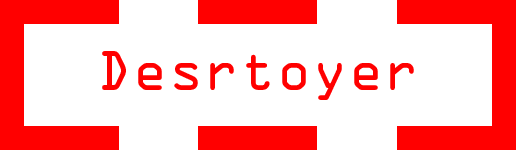
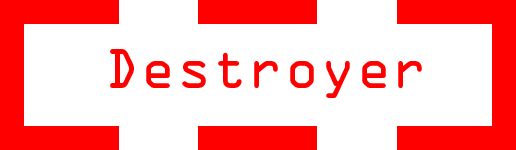
fonts change

Changed region(s): [[0.186, 0.32, 0.8372, 0.6667]]

diff --git a/GEOWARS_SOURCE/core/src/com/group17/geowars/screens/UpgradeMenuScreen.java b/GEOWARS_SOURCE/core/src/com/group17/geowars/screens/UpgradeMenuScreen.java
@@ -21,30 +21,31 @@ import com.group17.geowars.utils.SHIPTYPES;
  * Created by michiel on 4/12/2016.
  */
 public class UpgradeMenuScreen extends MenuScreen implements iHasStage, iSetActive {
-    private BitmapFont text;
-    private Batch batch;
-
-    private int showShip = 0;
-    private int showDrone = 0;
-    private int showShipStats = 0;
-    private int showDroneStats = 0;
-    private ShopThread ShopThread;
-    private SHIPTYPES shipData;
-    private Profile profile;
-    private DRONETYPES droneData;
-    private boolean loading = false;
+    protected Batch batch;
+    protected int showShip = 0;
+    protected int showDrone = 0;
+    protected int showShipStats = 0;
+    protected int showDroneStats = 0;
+    protected ShopThread ShopThread;
+    protected SHIPTYPES shipData;
+    protected Profile profile;
+    protected DRONETYPES droneData;
+    protected boolean loading = false;
+    protected Color color;
+    protected BitmapFont bigFont;
 
     public UpgradeMenuScreen() {
         super();
         create();
-        profile =new Profile(SHIPTYPES.DESTROYER, DRONETYPES.DEFEND);
+        profile = new Profile(SHIPTYPES.DESTROYER, DRONETYPES.DEFEND);
+        createButtons();
+        color = Color.WHITE;
+        bigFont = Managers.getAssetManager().getGameFont(color, 15);
     }
 
     public void create() {
         Gdx.input.setInputProcessor(stage);
         batch = new SpriteBatch();
-        text = new BitmapFont();
-        text.setColor(Color.WHITE);
         shipData=SHIPTYPES.ASSAULT;
         droneData=DRONETYPES.SUPPORT;
     }
@@ -233,65 +234,64 @@ public class UpgradeMenuScreen extends MenuScreen implements iHasStage, iSetActi
     }
 
     public void tankText() {
-        text.draw(batch, "-TANK", 50, GeoWars.HEIGHT - GeoWars.HEIGHT / 6);
-        text.draw(batch, "-HIGH HP", 50, (float) (GeoWars.HEIGHT - GeoWars.HEIGHT / 4.75));
-        text.draw(batch, "-LOW ATK", 50, GeoWars.HEIGHT - GeoWars.HEIGHT / 4);
-        text.draw(batch, "HP = 30", 50, GeoWars.HEIGHT / 2 + GeoWars.HEIGHT / 10);
-        text.draw(batch, "ATK = 2", GeoWars.WIDTH / 3, GeoWars.HEIGHT / 2 + GeoWars.HEIGHT / 10);
+        bigFont.draw(batch, "-TANK", 50, GeoWars.HEIGHT - GeoWars.HEIGHT / 6);
+        bigFont.draw(batch, "-HIGH HP", 50, (float) (GeoWars.HEIGHT - GeoWars.HEIGHT / 4.75));
+        bigFont.draw(batch, "-LOW ATK", 50, GeoWars.HEIGHT - GeoWars.HEIGHT / 4);
+        bigFont.draw(batch, "HP = 30", 50, GeoWars.HEIGHT / 2 + GeoWars.HEIGHT / 10);
+        bigFont.draw(batch, "ATK = 2", GeoWars.WIDTH / 3, GeoWars.HEIGHT / 2 + GeoWars.HEIGHT / 10);
     }
 
     public void assaultText() {
-        text.draw(batch, "-ASSAULT", 50, GeoWars.HEIGHT - GeoWars.HEIGHT / 6);
-        text.draw(batch, "-HIGH ATTACK", 50, (float) (GeoWars.HEIGHT - GeoWars.HEIGHT / 4.75));
-        text.draw(batch, "-MED HP", 50, GeoWars.HEIGHT - GeoWars.HEIGHT / 4);
-        text.draw(batch, "HP = 20", 50, GeoWars.HEIGHT / 2 + GeoWars.HEIGHT / 10);
-        text.draw(batch, "ATK = 10", GeoWars.WIDTH / 3, GeoWars.HEIGHT / 2 + GeoWars.HEIGHT / 10);
+        bigFont.draw(batch, "-ASSAULT", 50, GeoWars.HEIGHT - GeoWars.HEIGHT / 6);
+        bigFont.draw(batch, "-HIGH ATTACK", 50, (float) (GeoWars.HEIGHT - GeoWars.HEIGHT / 4.75));
+        bigFont.draw(batch, "-MED HP", 50, GeoWars.HEIGHT - GeoWars.HEIGHT / 4);
+        bigFont.draw(batch, "HP = 20", 50, GeoWars.HEIGHT / 2 + GeoWars.HEIGHT / 10);
+        bigFont.draw(batch, "ATK = 10", GeoWars.WIDTH / 3, GeoWars.HEIGHT / 2 + GeoWars.HEIGHT / 10);
     }
 
     public void destroyerText() {
-        text.draw(batch, "-DESTROYER", 50, GeoWars.HEIGHT - GeoWars.HEIGHT / 6);
-        text.draw(batch, "-HIGH ATK", 50, (float) (GeoWars.HEIGHT - GeoWars.HEIGHT / 4.75));
-        text.draw(batch, "-LOW DEF", 50, GeoWars.HEIGHT - GeoWars.HEIGHT / 4);
-        text.draw(batch, "HP = 10", 50, GeoWars.HEIGHT / 2 + GeoWars.HEIGHT / 10);
-        text.draw(batch, "ATK = 10", GeoWars.WIDTH / 3, GeoWars.HEIGHT / 2 + GeoWars.HEIGHT / 10);
+        bigFont.draw(batch, "-DESTROYER", 50, GeoWars.HEIGHT - GeoWars.HEIGHT / 6);
+        bigFont.draw(batch, "-HIGH ATK", 50, (float) (GeoWars.HEIGHT - GeoWars.HEIGHT / 4.75));
+        bigFont.draw(batch, "-LOW DEF", 50, GeoWars.HEIGHT - GeoWars.HEIGHT / 4);
+        bigFont.draw(batch, "HP = 10", 50, GeoWars.HEIGHT / 2 + GeoWars.HEIGHT / 10);
+        bigFont.draw(batch, "ATK = 10", GeoWars.WIDTH / 3, GeoWars.HEIGHT / 2 + GeoWars.HEIGHT / 10);
     }
 
     public void supportText() {
-        text.draw(batch, "-SLOW DOWN ENEMIES", GeoWars.WIDTH / 2 + (GeoWars.WIDTH / 3), GeoWars.HEIGHT - GeoWars.HEIGHT / 6);
-        text.draw(batch, "-CAN'T DIE", GeoWars.WIDTH / 2 + (GeoWars.WIDTH / 3), GeoWars.HEIGHT - GeoWars.HEIGHT / 4);
-        text.draw(batch, "ATK= 0", GeoWars.WIDTH / 2 + 50, GeoWars.HEIGHT / 2 + GeoWars.HEIGHT / 10);
-        text.draw(batch, "HP = INFINITE", GeoWars.WIDTH / 2 + (GeoWars.WIDTH / 3), GeoWars.HEIGHT / 2 + GeoWars.HEIGHT / 10);
+        bigFont.draw(batch, "-SLOW DOWN ENEMIES", GeoWars.WIDTH / 2 + (GeoWars.WIDTH / 3), GeoWars.HEIGHT - GeoWars.HEIGHT / 6);
+        bigFont.draw(batch, "-CAN'T DIE", GeoWars.WIDTH / 2 + (GeoWars.WIDTH / 3), GeoWars.HEIGHT - GeoWars.HEIGHT / 4);
+        bigFont.draw(batch, "ATK= 0", GeoWars.WIDTH / 2 + 50, GeoWars.HEIGHT / 2 + GeoWars.HEIGHT / 10);
+        bigFont.draw(batch, "HP = INFINITE", GeoWars.WIDTH / 2 + (GeoWars.WIDTH / 3), GeoWars.HEIGHT / 2 + GeoWars.HEIGHT / 10);
     }
 
     public void attackText() {
-        text.draw(batch, "-SHOOTS UNITS", GeoWars.WIDTH / 2 + (GeoWars.WIDTH / 3), GeoWars.HEIGHT - GeoWars.HEIGHT / 6);
-        text.draw(batch, "-CAN'T DIE", GeoWars.WIDTH / 2 + (GeoWars.WIDTH / 3), GeoWars.HEIGHT - GeoWars.HEIGHT / 4);
-        text.draw(batch, "ATK= 1", GeoWars.WIDTH / 2 + 50, GeoWars.HEIGHT / 2 + GeoWars.HEIGHT / 10);
-        text.draw(batch, "HP = INFINITE", GeoWars.WIDTH / 2 + (GeoWars.WIDTH / 3), GeoWars.HEIGHT / 2 + GeoWars.HEIGHT / 10);
+        bigFont.draw(batch, "-SHOOTS UNITS", GeoWars.WIDTH / 2 + (GeoWars.WIDTH / 3), GeoWars.HEIGHT - GeoWars.HEIGHT / 6);
+        bigFont.draw(batch, "-CAN'T DIE", GeoWars.WIDTH / 2 + (GeoWars.WIDTH / 3), GeoWars.HEIGHT - GeoWars.HEIGHT / 4);
+        bigFont.draw(batch, "ATK= 1", GeoWars.WIDTH / 2 + 50, GeoWars.HEIGHT / 2 + GeoWars.HEIGHT / 10);
+        bigFont.draw(batch, "HP = INFINITE", GeoWars.WIDTH / 2 + (GeoWars.WIDTH / 3), GeoWars.HEIGHT / 2 + GeoWars.HEIGHT / 10);
     }
 
     public void defendText() {
-        text.draw(batch, "-DEFENDS SHIP", GeoWars.WIDTH / 2 + (GeoWars.WIDTH / 3), GeoWars.HEIGHT - GeoWars.HEIGHT / 6);
-        text.draw(batch, "-CAN'T DIE", GeoWars.WIDTH / 2 + (GeoWars.WIDTH / 3), GeoWars.HEIGHT - GeoWars.HEIGHT / 4);
-        text.draw(batch, "ATK= 0", GeoWars.WIDTH / 2 + 50, GeoWars.HEIGHT / 2 + GeoWars.HEIGHT / 10);
-        text.draw(batch, "HP = INFINITE", GeoWars.WIDTH / 2 + (GeoWars.WIDTH / 3), GeoWars.HEIGHT / 2 + GeoWars.HEIGHT / 10);
+        bigFont.draw(batch, "-DEFENDS SHIP", GeoWars.WIDTH / 2 + (GeoWars.WIDTH / 3), GeoWars.HEIGHT - GeoWars.HEIGHT / 6);
+        bigFont.draw(batch, "-CAN'T DIE", GeoWars.WIDTH / 2 + (GeoWars.WIDTH / 3), GeoWars.HEIGHT - GeoWars.HEIGHT / 4);
+        bigFont.draw(batch, "ATK= 0", GeoWars.WIDTH / 2 + 50, GeoWars.HEIGHT / 2 + GeoWars.HEIGHT / 10);
+        bigFont.draw(batch, "HP = INFINITE", GeoWars.WIDTH / 2 + (GeoWars.WIDTH / 3), GeoWars.HEIGHT / 2 + GeoWars.HEIGHT / 10);
     }
 
     public void shipSkillTreeText() {
-        text.draw(batch, "SKILL TREE", 50, GeoWars.HEIGHT / 2 - 50);
-        text.draw(batch, "SKILL POINTS 2/2", GeoWars.WIDTH / 3, GeoWars.HEIGHT / 2 - 50);
+        bigFont.draw(batch, "SKILL TREE", 50, GeoWars.HEIGHT / 2 - 50);
+        bigFont.draw(batch, "SKILL POINTS 2 of 2", GeoWars.WIDTH / 3, GeoWars.HEIGHT / 2 - 50);
     }
 
     public void droneSkillTreeText() {
-        text.draw(batch, "SKILL TREE", GeoWars.WIDTH / 2 + 50, GeoWars.HEIGHT / 2 - 50);
-        text.draw(batch, "SKILL POINTS 2/2", GeoWars.WIDTH / 2 + (GeoWars.WIDTH / 3), GeoWars.HEIGHT / 2 - 50);
+        bigFont.draw(batch, "SKILL TREE", GeoWars.WIDTH / 2 + 50, GeoWars.HEIGHT / 2 - 50);
+        bigFont.draw(batch, "SKILL POINTS 2 of 2", GeoWars.WIDTH / 2 + (GeoWars.WIDTH / 3), GeoWars.HEIGHT / 2 - 50);
     }
 
     public void showText() {
-        text.draw(batch, "SHIP", (GeoWars.WIDTH / 2) / 2 - 15, GeoWars.HEIGHT - 90);
-        text.draw(batch, "DRONE", GeoWars.WIDTH / 2 + (GeoWars.WIDTH / 2 / 2 - 30), GeoWars.HEIGHT - 90);
+        bigFont.draw(batch, "SHIP", (GeoWars.WIDTH / 2) / 2 - 15, GeoWars.HEIGHT - 90);
+        bigFont.draw(batch, "DRONE", GeoWars.WIDTH / 2 + (GeoWars.WIDTH / 2 / 2 - 30), GeoWars.HEIGHT - 90);
         changeText();
-        createButtons();
     }
 
     public void changeText() {
@@ -368,7 +368,7 @@ public class UpgradeMenuScreen extends MenuScreen implements iHasStage, iSetActi
         drawTreeLine(GeoWars.WIDTH / 4, GeoWars.HEIGHT / 5, GeoWars.WIDTH / 5, GeoWars.HEIGHT / 4);
         drawTreeLine(GeoWars.WIDTH / 5, GeoWars.HEIGHT / 4, GeoWars.WIDTH / 5, GeoWars.HEIGHT / 3);
         drawTreeLine(GeoWars.WIDTH / 5, GeoWars.HEIGHT / 3, GeoWars.WIDTH / 4, GeoWars.HEIGHT / 3 + GeoWars.HEIGHT / 20);
-        drawTreeLine(GeoWars.WIDTH / 2, 75, GeoWars.WIDTH / 2, GeoWars.HEIGHT);
+        drawTreeLine(GeoWars.WIDTH / 2, 95, GeoWars.WIDTH / 2, GeoWars.HEIGHT);
     }
 
     public void droneSkillTree() {
@@ -430,10 +430,6 @@ public class UpgradeMenuScreen extends MenuScreen implements iHasStage, iSetActi
         active = false;
     }
 
-    public void showLoading() {
-        text.draw(batch, "Loading...", 350, 380);
-    }
-
     public void getAllData() {
         if (loading)
             return;
@@ -448,24 +444,12 @@ public class UpgradeMenuScreen extends MenuScreen implements iHasStage, iSetActi
 
         super.render(delta);
         batch.begin();
-        if (ShopThread != null && ShopThread.finished()) {
-          //  shipData = ShopThread.getShipData();
-           // droneData = ShopThread.getDronesData();
-            ShopThread = null;
 
-            loading = false;
-
-        }
-        if (ShopThread != null && !ShopThread.finished()) {
-            showLoading();
-        }
-        if (ShopThread == null) {
             showText();
-        }
+
         batch.end();
-        if (ShopThread == null) {
             changeImage();
             showSkillTrees();
-        }
+
     }
 }

diff --git a/GEOWARS_SOURCE/core/src/com/group17/geowars/screens/ProfileMenuScreen.java b/GEOWARS_SOURCE/core/src/com/group17/geowars/screens/ProfileMenuScreen.java
@@ -26,6 +26,8 @@ public class ProfileMenuScreen extends MenuScreen implements iHasStage, iSetActi
     private Integer PlayerHighscore;
     private Table table;
     private String playerName,playerScore,gamesPlayed,hoursPlayed,playerLvl,currentShip,currentDrone;
+    protected Color color;
+    protected BitmapFont bigFont;
 
 
     private boolean loading = false;
@@ -33,6 +35,8 @@ public class ProfileMenuScreen extends MenuScreen implements iHasStage, iSetActi
     public ProfileMenuScreen() {
         super();
         create();
+        color = Color.WHITE;
+        bigFont = Managers.getAssetManager().getGameFont(color, 25);
     }
 
     public void create() {
@@ -78,38 +82,36 @@ public class ProfileMenuScreen extends MenuScreen implements iHasStage, iSetActi
     }
     public void showText() {
 
-        text.draw(batch, "GEOMETRYWARS", GeoWars.WIDTH / 2 - 70, GeoWars.HEIGHT - GeoWars.HEIGHT / 10);
+        bigFont.draw(batch, "GEOMETRYWARS", GeoWars.WIDTH / 2 - 150, GeoWars.HEIGHT - GeoWars.HEIGHT / 10);
 
-
-        BitmapFont font = new BitmapFont();
         Label.LabelStyle style = new Label.LabelStyle();
-        style.font = font;
+        style.font = bigFont;
 
         table = new Table();
         table.setFillParent(true);
-        table.add(new Label("Username :", style)).width(200);
-        table.add(new Label(playerName, style)).width(200);
+        table.add(new Label("Username :", style)).width(500);
+        table.add(new Label(playerName, style)).width(500);
         table.row();
-        table.add(new Label("HIGHSCORE ARCADE: ", style)).width(200);
-        table.add(new Label(playerScore,style)).width(200);
+        table.add(new Label("HIGHSCORE ARCADE: ", style)).width(500);
+        table.add(new Label(playerScore,style)).width(500);
         table.row();
-        table.add(new Label("GAMES PLAYED:", style)).width(200);
-        table.add(new Label(gamesPlayed,style)).width(200);
+        table.add(new Label("GAMES PLAYED:", style)).width(500);
+        table.add(new Label(gamesPlayed,style)).width(500);
         table.row();
-        table.add(new Label("HOURS PLAYED:", style)).width(200);
-        table.add(new Label(hoursPlayed,style)).width(200);
+        table.add(new Label("HOURS PLAYED:", style)).width(500);
+        table.add(new Label(hoursPlayed,style)).width(500);
         table.row();
-        table.add(new Label("LEVEL: ", style)).width(200);
-        table.add(new Label(playerLvl,style)).width(200);
+        table.add(new Label("LEVEL: ", style)).width(500);
+        table.add(new Label(playerLvl,style)).width(500);
         table.row();
-        table.add(new Label("CURRENT SHIP: ", style)).width(200);
-        table.add(new Label(currentShip,style)).width(200);
+        table.add(new Label("CURRENT SHIP: ", style)).width(500);
+        table.add(new Label(currentShip,style)).width(500);
         table.row();
-        table.add(new Label("CURRENT Drone: ", style)).width(200);
-        table.add(new Label(currentDrone,style)).width(200);
+        table.add(new Label("CURRENT Drone: ", style)).width(500);
+        table.add(new Label(currentDrone,style)).width(500);
 
         table.row();
-
+        table.setPosition(GeoWars.WIDTH/15, GeoWars.HEIGHT/2 - 500);
         stage.addActor(table);
     }
 

diff --git a/GEOWARS_SOURCE/core/src/com/group17/geowars/screens/LoginScreen.java b/GEOWARS_SOURCE/core/src/com/group17/geowars/screens/LoginScreen.java
@@ -62,20 +62,22 @@ public class LoginScreen extends MenuScreen implements iHasStage, iSetActive {
 
         this.username = newTextField();
         this.password = newPwField();
+        Label.LabelStyle style = new Label.LabelStyle();
+        style.font = myText;
         table = new Table();
         table.setFillParent(true);
         table.add(errorlable).width(200);
         errorlable.setColor(Color.RED);
         table.row();
 
-        table.add(new Label("Username", style())).width(200);
+        table.add(new Label("Username", style)).width(200);
         table.add(username).width(200);
         table.row();
-        table.add(new Label("Password", style())).width(200);
+        table.add(new Label("Password", style)).width(200);
         table.add(password).width(200);
         table.row();
-
-        final ImageButton loginButton = newImageButton("Menu_loginicon", width / 2 - 75, height / 3, 150, 50, new MenuGrid(0, 1));
+        table.setPosition(GeoWars.WIDTH/25 - 50, GeoWars.HEIGHT/2 - 500);
+        final ImageButton loginButton = newImageButton("Menu_loginicon", width / 2 - 100, height / 3, 200, 75, new MenuGrid(0, 1));
         //newImageButton("Menu_continueicon", width / 2 - 75, height / 6, 150, 50, new MenuGrid(0, 1));
         loginButton.addListener(new ChangeListener() {
             @Override

diff --git a/GEOWARS_SOURCE/core/src/com/group17/geowars/screens/MenuScreen.java b/GEOWARS_SOURCE/core/src/com/group17/geowars/screens/MenuScreen.java
@@ -42,6 +42,8 @@ public class MenuScreen implements Screen {
     protected Batch batch;
     protected BitmapFont text;
 
+    private BitmapFont myText = Managers.getAssetManager().getGameFont(Color.WHITE,15);
+
     protected boolean active = false;
 
     public MenuScreen()
@@ -265,7 +267,7 @@ public class MenuScreen implements Screen {
         txtStyle.fontColor = Color.WHITE;
         txtStyle.font = font;
         Label.LabelStyle style = new Label.LabelStyle();
-        style.font = font;
+        style.font = myText;
 
         TextField TxtUsername = new TextField("", txtStyle);
         TxtUsername.setMessageText("type username here");
@@ -293,7 +295,7 @@ public class MenuScreen implements Screen {
         txtStyle.fontColor = Color.WHITE;
         txtStyle.font = font;
         Label.LabelStyle style = new Label.LabelStyle();
-        style.font = font;
+        style.font = myText;
 
         TextField TxtPw = new TextField("", txtStyle);
         TxtPw.setMessageText("type password here");
